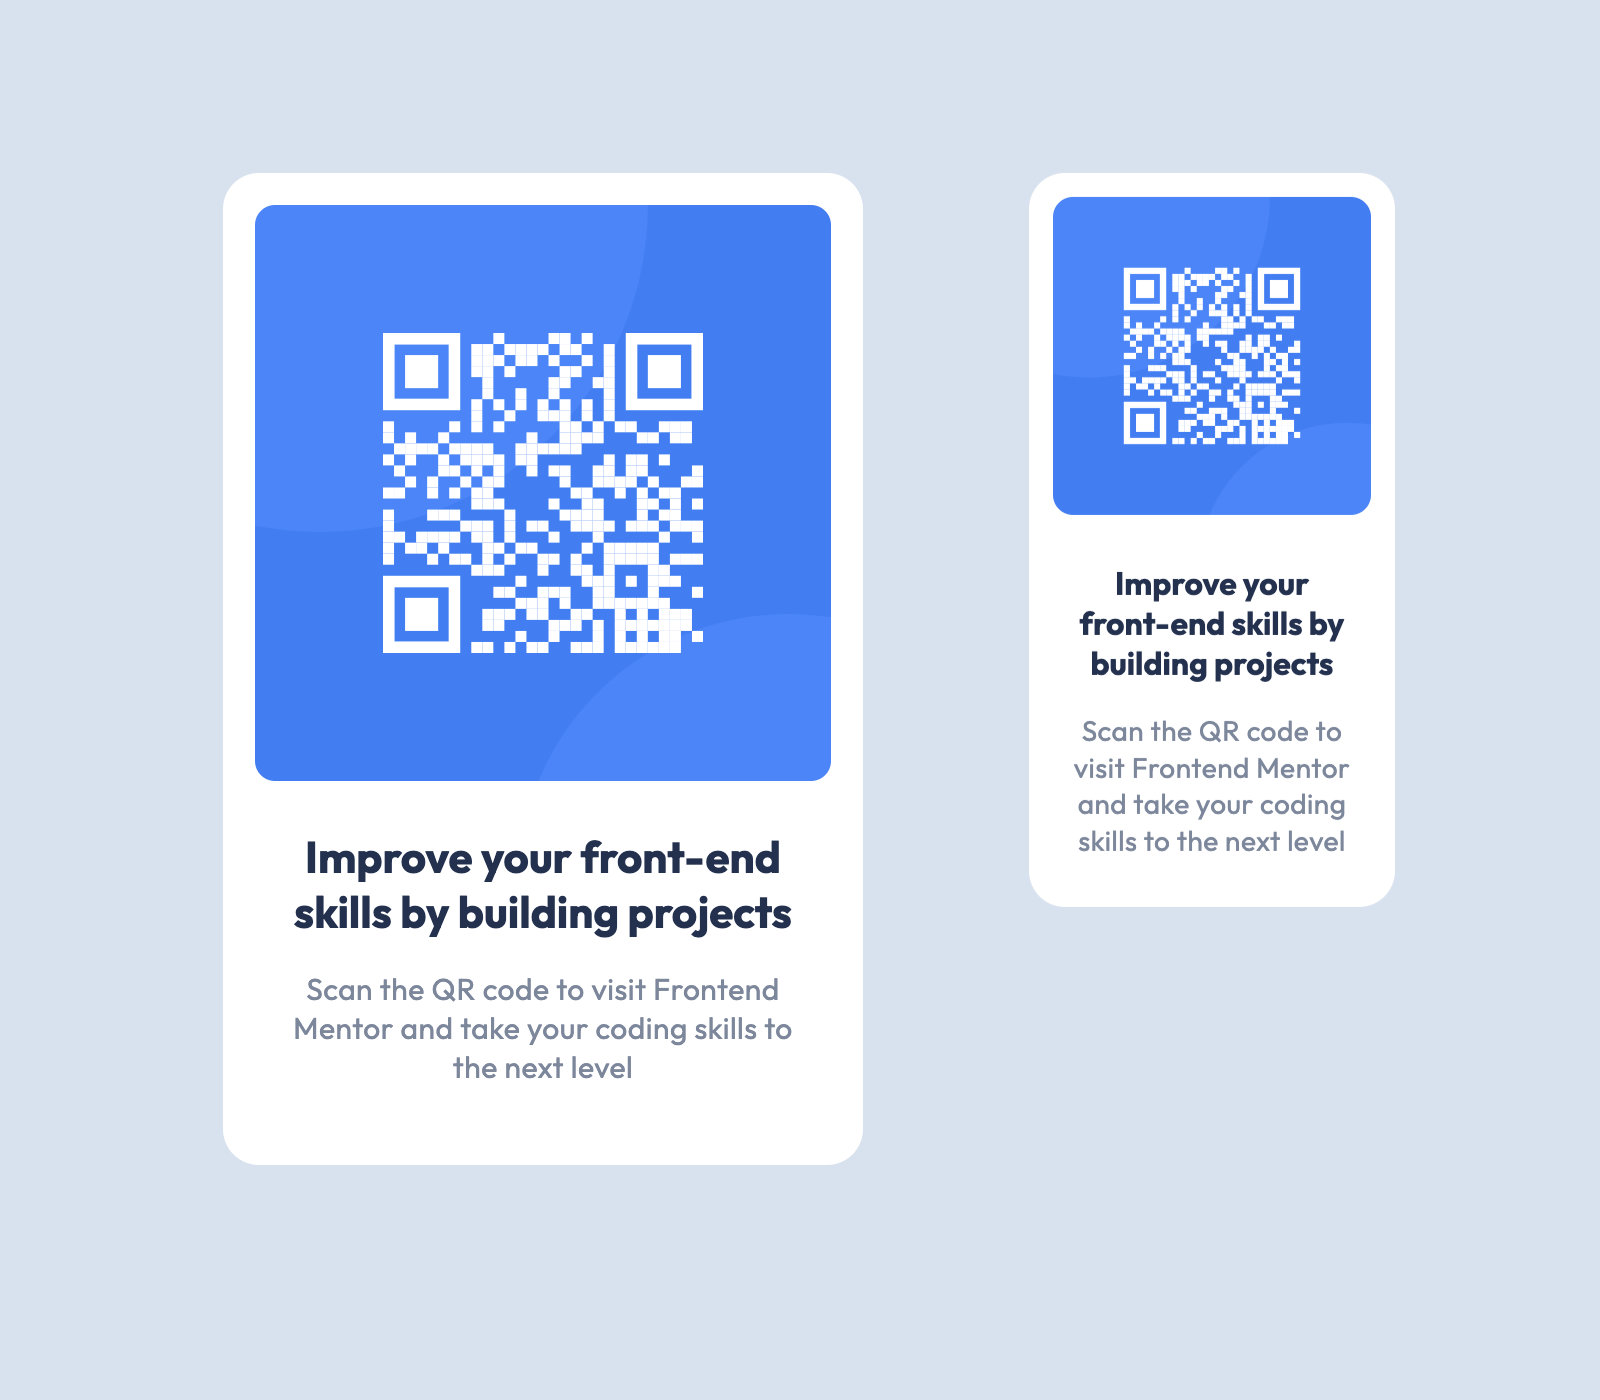
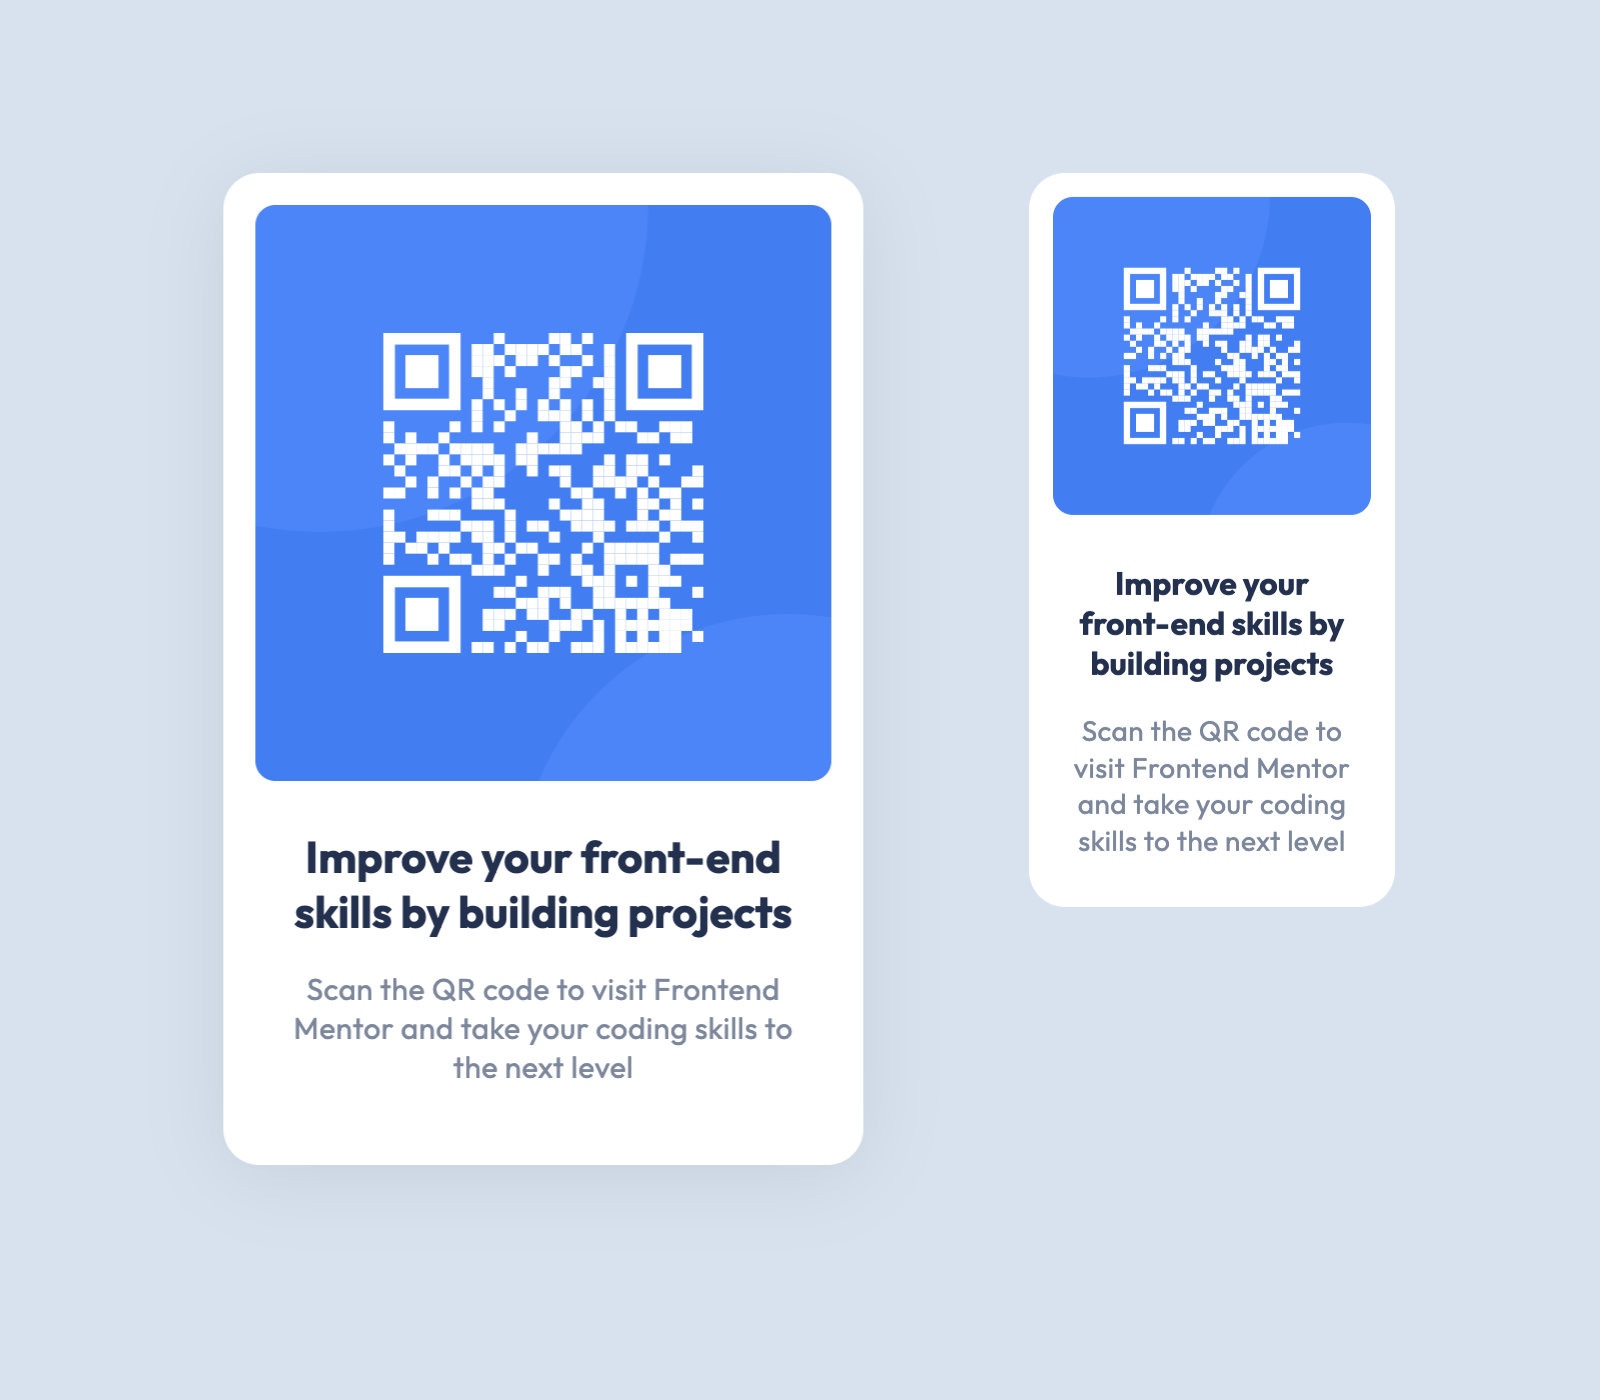
Added shadow to card

diff --git a/styles.css b/styles.css
@@ -65,7 +65,7 @@ live in browser */
 :root {
   --lightGray: hsl(212, 45%, 89%);
   --grayishBlue: hsl(220, 15%, 55%);
-  --darkBlue: hsl(218, 44%, 22%);
+  --darkBlue: hsl(217, 45%, 22%);
 }
 
 /* ================ */
@@ -93,11 +93,12 @@ body {
 }
 
 .card {
-background-color: #fff;
+  background-color: #fff;
   max-width: 320px;
   padding: 1rem;
   border-radius: 18px;
   text-align: center;
+  box-shadow: 0 5px 40px rgba(31,50,81,0.1);
 }
 
 .card-content {
@@ -122,7 +123,7 @@ h1 {
 
 p {
   color: var(--grayishBlue);
-  letter-spacing: .25px;
+  letter-spacing: 0.25px;
   font-size: 15px;
   line-height: 1.3;
   margin-bottom: 1.4375rem;
@@ -172,12 +173,12 @@ footer a {
   }
   p {
     font-size: 14px;
-    margin-bottom: .75rem;
+    margin-bottom: 0.75rem;
   }
   .card {
-    padding: .75rem;
+    padding: 0.75rem;
   }
   .card-content {
-    padding: 0 .5rem;
+    padding: 0 0.5rem;
   }
 }
